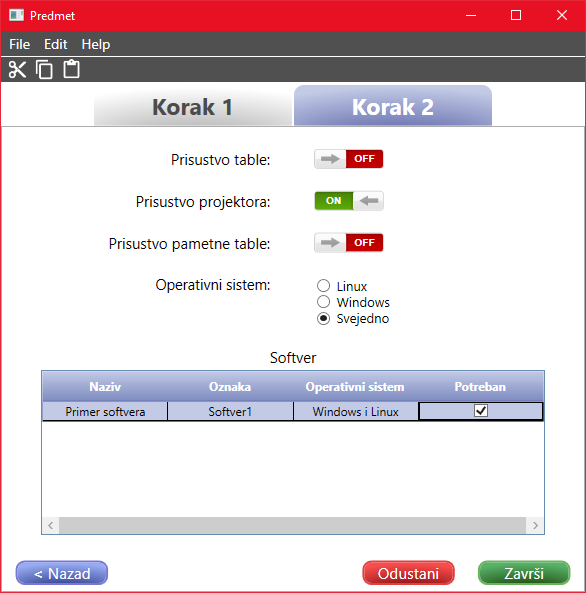
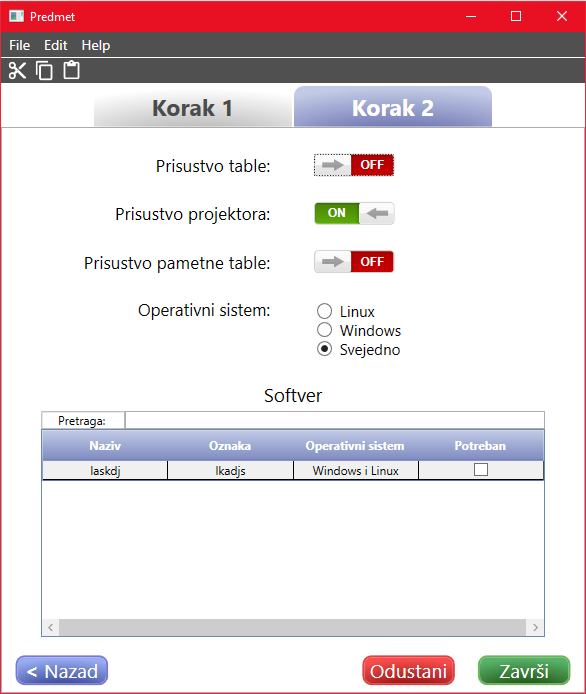
ispravljena izmena oznake predmeta

Changed region(s): [[0.0, 0.0, 1.0, 0.7285], [0.0, 0.8499, 0.9829, 1.0]]

diff --git a/HCI-Projekat/Tutorijal.xaml b/HCI-Projekat/Tutorijal.xaml
@@ -621,7 +621,7 @@
                                         <RowDefinition Height="1*"/>
                                         <RowDefinition Height="1*"/>
                                     </Grid.RowDefinitions>
-                                    <TextBox Text="" Name="oznakaSoftver" Grid.Column="0" Grid.Row="1" LostFocus="oznakaIzgubilaFocus" GotFocus="oznakaDobilaFokus" TextChanged="UnetaOznakaSoftvera" ContextMenu="{StaticResource TextBoxContextMenu}"/>
+                                    <TextBox Text="" Name="oznakaSoftver" Grid.Column="0" Grid.Row="1" LostFocus="oznakaIzgubilaFocus" GotFocus="oznakaDobilaFokus" TextChanged="UnetaOznakaSoftvera" ContextMenu="{StaticResource TextBoxContextMenu}" Grid.ColumnSpan="2" Margin="2,3,5,18" Grid.RowSpan="2"/>
                                     <TextBlock Grid.Row="1" Grid.Column="2" Name="GreskaOznakaSoftvera" FontSize="12" VerticalAlignment="Bottom" Foreground="Red"/>
                                     <Popup Name="popupOznaka"
                                             PlacementRectangle="80,0,0,0"

diff --git a/HCI-Projekat/DodavanjePredmeta.xaml.cs b/HCI-Projekat/DodavanjePredmeta.xaml.cs
@@ -652,6 +652,13 @@ namespace HCI_Projekat
 
                 if (oznakaPromenjena)
                 {
+                    foreach(KalendarPolje polje in racunarskiCentar.PoljaKalendara.Values)
+                    {
+                        if (polje.NazivPolja.Split('-')[0].Trim().Equals(staraOznaka))
+                        {
+                            polje.NazivPolja = predmetIzmena.Oznaka + '-' + polje.NazivPolja.Split('-')[1].Trim();
+                        }
+                    }
                     racunarskiCentar.Predmeti.Remove(staraOznaka);
                     racunarskiCentar.Predmeti.Add(predmetIzmena.Oznaka, predmetIzmena);
                 }

diff --git a/HCI-Projekat/MainWindow.xaml.cs b/HCI-Projekat/MainWindow.xaml.cs
@@ -3391,7 +3391,11 @@ namespace HCI_Projekat
                         foreach (string id in oznakePolja)
                             racunarskiCentar.PoljaKalendara.Remove(id);
                         foreach (string poz in predmetiUcionice)
+                        {
+                            Console.WriteLine(poz);
                             racunarskiCentar.Predmeti[poz].PreostaliTermini++;
+                        }
+                            
                     }
                     else
                         return;
